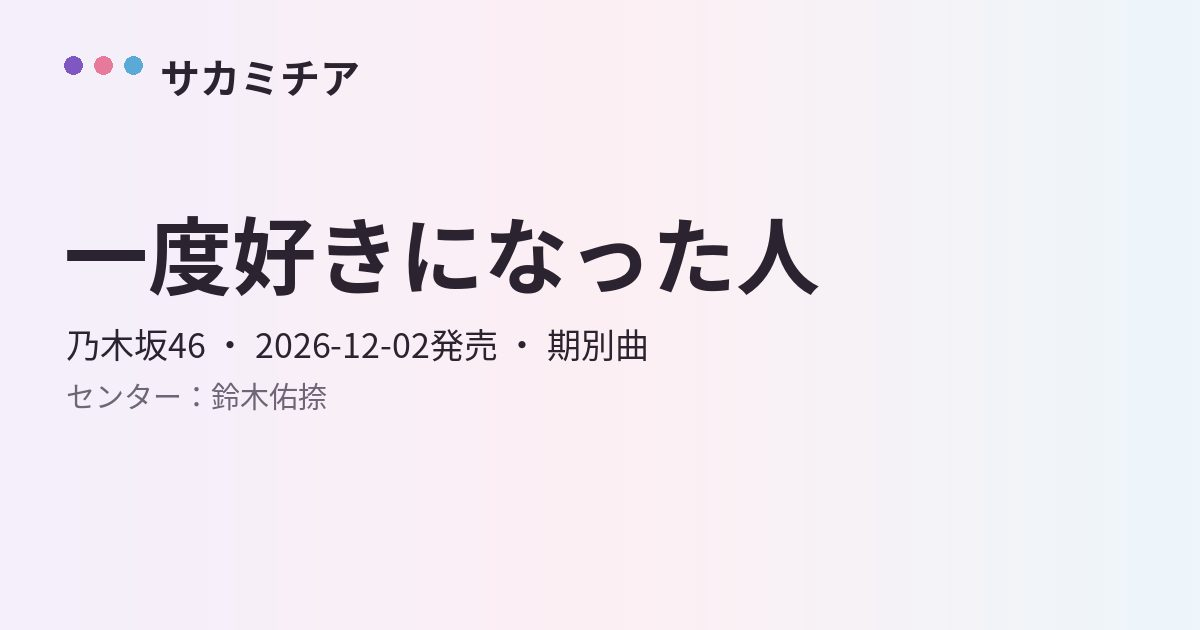
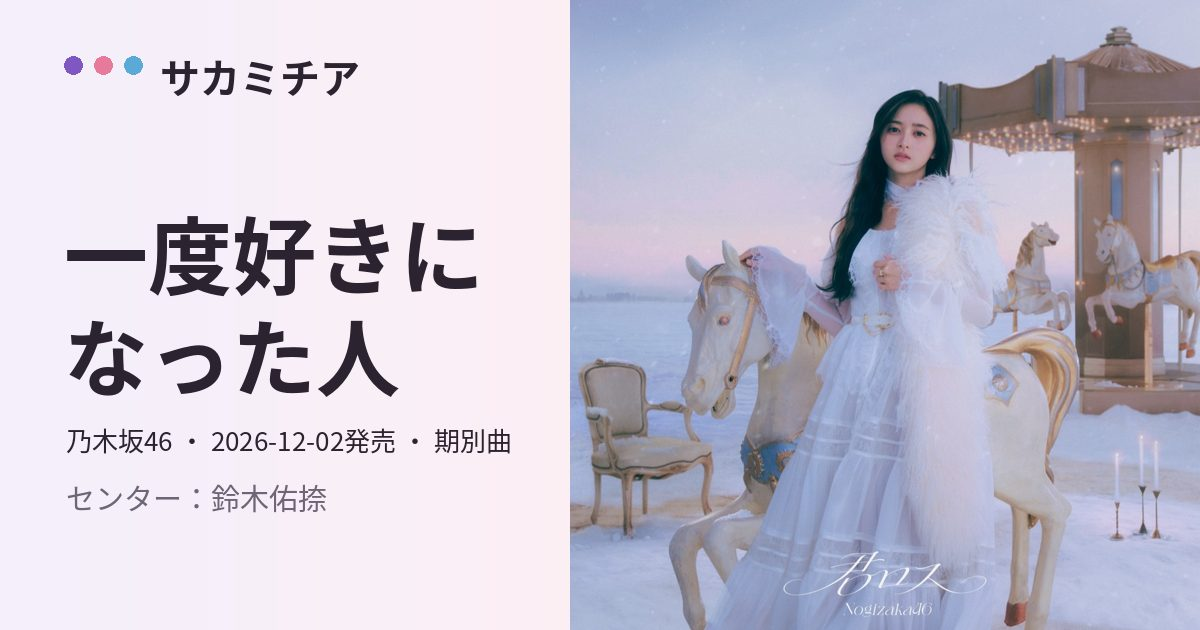
楽曲ページ：43rdSG『君ロス』のジャケット（TYPE-A・公式発表済みアートワーク）を登録し3曲のページ/OGPを再生成

diff --git a/songs/n-338/index.html b/songs/n-338/index.html
@@ -5,7 +5,7 @@
 <main class="wrap"><section class="page">
 <p style="margin:0 0 10px"><a href="../">← 楽曲図鑑に戻る</a></p>
 <h2 class="title">君ロス<span style="font-size:14px;color:var(--muted);margin-left:10px">きみろす</span></h2>
-<div class="sg-detail"><div class="sg-info"><p><span class="chip g-乃木坂46">乃木坂46</span></p><p>発売日：<b>2026-12-02</b><br>収録：<b>43rdSG</b><br>種別：表題曲<br>センター：<b><a href="../../members/inoue-nagi/">井上和</a></b></p></div></div>
+<div class="sg-detail"><div class="sg-jacket"><img src="../../assets/jackets/43rdsg-2026-12-02.jpg" alt="君ロスのジャケット"><p class="mb-cap">初収録リリース「君ロス」のジャケット</p></div><div class="sg-info"><p><span class="chip g-乃木坂46">乃木坂46</span></p><p>発売日：<b>2026-12-02</b><br>収録：<b>君ロス</b>（43rdSG）<br>種別：表題曲<br>センター：<b><a href="../../members/inoue-nagi/">井上和</a></b></p></div></div>
 <h4 style="margin:16px 0 4px">フォーメーション</h4><p style="color:var(--muted);font-size:12px;margin:0 0 6px">上が後列、下が前列です。色付きがセンター。（参考データに基づく）</p><div class="fq-board"><div class="fq-row" style="--maxn:9"><div class="fq-tile"><img loading="lazy" src="../../assets/member-photos/yumiki_nao.jpg" alt=""><span class="fq-name"><span class="fq-fam">弓木</span><span class="fq-giv">奈於</span></span></div><div class="fq-tile"><img loading="lazy" src="../../assets/member-photos/ioki_mao.jpg" alt=""><span class="fq-name"><span class="fq-fam">五百城</span><span class="fq-giv">茉央</span></span></div><div class="fq-tile"><img loading="lazy" src="../../assets/member-photos/kanagawa_saya.jpg" alt=""><span class="fq-name"><span class="fq-fam">金川</span><span class="fq-giv">紗耶</span></span></div><div class="fq-tile"><img loading="lazy" src="../../assets/member-photos/okoshi_hinano.jpg" alt=""><span class="fq-name"><span class="fq-fam">大越</span><span class="fq-giv">ひなの</span></span></div><div class="fq-tile"><img loading="lazy" src="../../assets/member-photos/sugawara_satsuki.jpg" alt=""><span class="fq-name"><span class="fq-fam">菅原</span><span class="fq-giv">咲月</span></span></div><div class="fq-tile"><img loading="lazy" src="../../assets/member-photos/yada_moeka.jpg" alt=""><span class="fq-name"><span class="fq-fam">矢田</span><span class="fq-giv">萌華</span></span></div><div class="fq-tile"><img loading="lazy" src="../../assets/member-photos/hayashi_runa.jpg" alt=""><span class="fq-name"><span class="fq-fam">林</span><span class="fq-giv">瑠奈</span></span></div><div class="fq-tile"><img loading="lazy" src="../../assets/member-photos/okamoto_hina.jpg" alt=""><span class="fq-name"><span class="fq-fam">岡本</span><span class="fq-giv">姫奈</span></span></div><div class="fq-tile"><img loading="lazy" src="../../assets/member-photos/tamura_mayu.jpg" alt=""><span class="fq-name"><span class="fq-fam">田村</span><span class="fq-giv">真佑</span></span></div></div><div class="fq-row" style="--maxn:6"><div class="fq-tile"><img loading="lazy" src="../../assets/member-photos/ogawa_aya.jpg" alt=""><span class="fq-name"><span class="fq-fam">小川</span><span class="fq-giv">彩</span></span></div><div class="fq-tile"><img loading="lazy" src="../../assets/member-photos/ichinose_miku.jpg" alt=""><span class="fq-name"><span class="fq-fam">一ノ瀬</span><span class="fq-giv">美空</span></span></div><div class="fq-tile"><img loading="lazy" src="../../assets/member-photos/kaki_haruka.jpg" alt=""><span class="fq-name"><span class="fq-fam">賀喜</span><span class="fq-giv">遥香</span></span></div><div class="fq-tile"><img loading="lazy" src="../../assets/member-photos/endo_sakura.jpg" alt=""><span class="fq-name"><span class="fq-fam">遠藤</span><span class="fq-giv">さくら</span></span></div><div class="fq-tile"><img loading="lazy" src="../../assets/member-photos/ikeda_teresa.jpg" alt=""><span class="fq-name"><span class="fq-fam">池田</span><span class="fq-giv">瑛紗</span></span></div><div class="fq-tile"><img loading="lazy" src="../../assets/member-photos/nakanishi_aruno.jpg" alt=""><span class="fq-name"><span class="fq-fam">中西</span><span class="fq-giv">アルノ</span></span></div></div><div class="fq-row" style="--maxn:3"><div class="fq-tile"><img loading="lazy" src="../../assets/member-photos/setoguchi_mitsuki.jpg" alt=""><span class="fq-name"><span class="fq-fam">瀬戸</span><span class="fq-giv">口心月</span></span></div><div class="fq-tile ctr"><img loading="lazy" src="../../assets/member-photos/inoue_nagi.jpg" alt=""><span class="fq-name"><span class="fq-fam">井上</span><span class="fq-giv">和</span></span></div><div class="fq-tile"><img loading="lazy" src="../../assets/member-photos/kawasaki_sakura.jpg" alt=""><span class="fq-name"><span class="fq-fam">川﨑</span><span class="fq-giv">桜</span></span></div></div></div><h4 style="margin:16px 0 4px">参加メンバー（18名）</h4><p style="line-height:2"><a href="../../members/endo-sakura/">遠藤さくら</a>、<a href="../../members/kaki-haruka/">賀喜遥香</a>、<a href="../../members/kanagawa-saya/">金川紗耶</a>、<a href="../../members/tamura-mayu/">田村真佑</a>、<a href="../../members/hayashi-runa/">林瑠奈</a>、<a href="../../members/yumiki-nao/">弓木奈於</a>、<a href="../../members/ioki-mao/">五百城茉央</a>、<a href="../../members/ikeda-teresa/">池田瑛紗</a>、<a href="../../members/ichinose-miku/">一ノ瀬美空</a>、<a href="../../members/inoue-nagi/">井上和</a>、<a href="../../members/okamoto-hina/">岡本姫奈</a>、<a href="../../members/ogawa-aya/">小川彩</a>、<a href="../../members/kawasaki-sakura/">川﨑桜</a>、<a href="../../members/sugawara-satsuki/">菅原咲月</a>、<a href="../../members/nakanishi-aruno/">中西アルノ</a>、<a href="../../members/okoshi-hinano/">大越ひなの</a>、<a href="../../members/setoguchi-mitsuki/">瀬戸口心月</a>、<a href="../../members/yada-moeka/">矢田萌華</a></p><p style="margin-top:14px"><button type="button" id="sgEditFormation">このフォーメーションを編集する</button></p><h4 style="margin:18px 0 4px">同じリリースの曲</h4><p style="line-height:2"><b>君ロス</b>、<a href="../n-339/">一度好きになった人</a>、<a href="../n-340/">編集</a></p><p style="display:flex;justify-content:space-between;gap:10px;flex-wrap:wrap;margin-top:22px"><a href="../n-339/">次の曲「一度好きになった人」 →</a></p>
 </section></main>
 <footer><div class="wrap">サカミチアは個人運営の非公式ファンサイトです。公式運営とは関係ありません。記事・写真・楽曲の権利は各権利者に帰属します。</div></footer>

diff --git a/songs/n-340/index.html b/songs/n-340/index.html
@@ -5,7 +5,7 @@
 <main class="wrap"><section class="page">
 <p style="margin:0 0 10px"><a href="../">← 楽曲図鑑に戻る</a></p>
 <h2 class="title">編集<span style="font-size:14px;color:var(--muted);margin-left:10px">へんしゅう</span></h2>
-<div class="sg-detail"><div class="sg-info"><p><span class="chip g-乃木坂46">乃木坂46</span></p><p>発売日：<b>2026-12-02</b><br>収録：<b>43rdSG</b><br>種別：アンダー曲<br>センター：<b><a href="../../members/ito-riria/">伊藤理々杏</a>・<a href="../../members/iwamoto-renka/">岩本蓮加</a></b></p></div></div>
+<div class="sg-detail"><div class="sg-jacket"><img src="../../assets/jackets/43rdsg-2026-12-02.jpg" alt="君ロスのジャケット"><p class="mb-cap">初収録リリース「君ロス」のジャケット</p></div><div class="sg-info"><p><span class="chip g-乃木坂46">乃木坂46</span></p><p>発売日：<b>2026-12-02</b><br>収録：<b>君ロス</b>（43rdSG）<br>種別：アンダー曲<br>センター：<b><a href="../../members/ito-riria/">伊藤理々杏</a>・<a href="../../members/iwamoto-renka/">岩本蓮加</a></b></p></div></div>
 <h4 style="margin:16px 0 4px">フォーメーション</h4><p style="color:var(--muted);font-size:12px;margin:0 0 6px">上が後列、下が前列です。色付きがセンター。（公式発表に基づく）</p><div class="fq-board"><div class="fq-row" style="--maxn:6"><div class="fq-tile"><img loading="lazy" src="../../assets/member-photos/suzuki_yuuna.jpg" alt=""><span class="fq-name"><span class="fq-fam">鈴木</span><span class="fq-giv">佑捺</span></span></div><div class="fq-tile"><img loading="lazy" src="../../assets/member-photos/nagashima_rio.jpg" alt=""><span class="fq-name"><span class="fq-fam">長嶋</span><span class="fq-giv">凛桜</span></span></div><div class="fq-tile"><img loading="lazy" src="../../assets/member-photos/kawabata_hina.jpg" alt=""><span class="fq-name"><span class="fq-fam">川端</span><span class="fq-giv">晃菜</span></span></div><div class="fq-tile"><img loading="lazy" src="../../assets/member-photos/masuda_mirine.jpg" alt=""><span class="fq-name"><span class="fq-fam">増田</span><span class="fq-giv">三莉音</span></span></div><div class="fq-tile"><img loading="lazy" src="../../assets/member-photos/atago_kokone.jpg" alt=""><span class="fq-name"><span class="fq-fam">愛宕</span><span class="fq-giv">心響</span></span></div><div class="fq-tile"><img loading="lazy" src="../../assets/member-photos/ozu_reina.jpg" alt=""><span class="fq-name"><span class="fq-fam">小津</span><span class="fq-giv">玲奈</span></span></div></div><div class="fq-row" style="--maxn:5"><div class="fq-tile"><img loading="lazy" src="../../assets/member-photos/morihira_urumi.jpg" alt=""><span class="fq-name"><span class="fq-fam">森平</span><span class="fq-giv">麗心</span></span></div><div class="fq-tile"><img loading="lazy" src="../../assets/member-photos/okuda_iroha.jpg" alt=""><span class="fq-name"><span class="fq-fam">奥田</span><span class="fq-giv">いろは</span></span></div><div class="fq-tile"><img loading="lazy" src="../../assets/member-photos/kuromi_haruka.jpg" alt=""><span class="fq-name"><span class="fq-fam">黒見</span><span class="fq-giv">明香</span></span></div><div class="fq-tile"><img loading="lazy" src="../../assets/member-photos/tomisato_nao.jpg" alt=""><span class="fq-name"><span class="fq-fam">冨里</span><span class="fq-giv">奈央</span></span></div><div class="fq-tile"><img loading="lazy" src="../../assets/member-photos/kaibe_akari.jpg" alt=""><span class="fq-name"><span class="fq-fam">海邉</span><span class="fq-giv">朱莉</span></span></div></div><div class="fq-row" style="--maxn:4"><div class="fq-tile"><img loading="lazy" src="../../assets/member-photos/shibata_yuna.jpg" alt=""><span class="fq-name"><span class="fq-fam">柴田</span><span class="fq-giv">柚菜</span></span></div><div class="fq-tile ctr"><img loading="lazy" src="../../assets/member-photos/iwamoto_renka.jpg" alt=""><span class="fq-name"><span class="fq-fam">岩本</span><span class="fq-giv">蓮加</span></span></div><div class="fq-tile ctr"><img loading="lazy" src="../../assets/member-photos/ito_riria.jpg" alt=""><span class="fq-name"><span class="fq-fam">伊藤</span><span class="fq-giv">理々杏</span></span></div><div class="fq-tile"><img loading="lazy" src="../../assets/member-photos/tsutsui_ayame.jpg" alt=""><span class="fq-name"><span class="fq-fam">筒井</span><span class="fq-giv">あやめ</span></span></div></div></div><h4 style="margin:16px 0 4px">参加メンバー（15名）</h4><p style="line-height:2"><a href="../../members/ito-riria/">伊藤理々杏</a>、<a href="../../members/iwamoto-renka/">岩本蓮加</a>、<a href="../../members/kuromi-haruka/">黒見明香</a>、<a href="../../members/shibata-yuna/">柴田柚菜</a>、<a href="../../members/tsutsui-ayame/">筒井あやめ</a>、<a href="../../members/okuda-iroha/">奥田いろは</a>、<a href="../../members/tomisato-nao/">冨里奈央</a>、<a href="../../members/atago-kokone/">愛宕心響</a>、<a href="../../members/ozu-reina/">小津玲奈</a>、<a href="../../members/kaibe-akari/">海邉朱莉</a>、<a href="../../members/kawabata-hina/">川端晃菜</a>、<a href="../../members/suzuki-yuuna/">鈴木佑捺</a>、<a href="../../members/nagashima-rio/">長嶋凛桜</a>、<a href="../../members/masuda-mirine/">増田三莉音</a>、<a href="../../members/morihira-urumi/">森平麗心</a></p><p style="margin-top:14px"><button type="button" id="sgEditFormation">このフォーメーションを編集する</button></p><h4 style="margin:18px 0 4px">同じリリースの曲</h4><p style="line-height:2"><a href="../n-338/">君ロス</a>、<a href="../n-339/">一度好きになった人</a>、<b>編集</b></p><p style="display:flex;justify-content:space-between;gap:10px;flex-wrap:wrap;margin-top:22px"><a href="../n-339/">← 前の曲「一度好きになった人」</a></p>
 </section></main>
 <footer><div class="wrap">サカミチアは個人運営の非公式ファンサイトです。公式運営とは関係ありません。記事・写真・楽曲の権利は各権利者に帰属します。</div></footer>

diff --git a/songs/n-339/index.html b/songs/n-339/index.html
@@ -5,7 +5,7 @@
 <main class="wrap"><section class="page">
 <p style="margin:0 0 10px"><a href="../">← 楽曲図鑑に戻る</a></p>
 <h2 class="title">一度好きになった人<span style="font-size:14px;color:var(--muted);margin-left:10px">いちどすきになったひと</span></h2>
-<div class="sg-detail"><div class="sg-info"><p><span class="chip g-乃木坂46">乃木坂46</span></p><p>発売日：<b>2026-12-02</b><br>収録：<b>43rdSG</b><br>種別：期別曲<br>センター：<b><a href="../../members/suzuki-yuuna/">鈴木佑捺</a></b><br>作曲：ナスカ<br>編曲：野中“まさ”雄一<br>ライブ披露：<b>2件</b></p></div></div>
+<div class="sg-detail"><div class="sg-jacket"><img src="../../assets/jackets/43rdsg-2026-12-02.jpg" alt="君ロスのジャケット"><p class="mb-cap">初収録リリース「君ロス」のジャケット</p></div><div class="sg-info"><p><span class="chip g-乃木坂46">乃木坂46</span></p><p>発売日：<b>2026-12-02</b><br>収録：<b>君ロス</b>（43rdSG）<br>種別：期別曲<br>センター：<b><a href="../../members/suzuki-yuuna/">鈴木佑捺</a></b><br>作曲：ナスカ<br>編曲：野中“まさ”雄一<br>ライブ披露：<b>2件</b></p></div></div>
 <h4 style="margin:16px 0 4px">歌唱メンバー（11名）</h4><p style="line-height:2"><a href="../../members/atago-kokone/">愛宕心響</a>、<a href="../../members/okoshi-hinano/">大越ひなの</a>、<a href="../../members/ozu-reina/">小津玲奈</a>、<a href="../../members/kaibe-akari/">海邉朱莉</a>、<a href="../../members/kawabata-hina/">川端晃菜</a>、<a href="../../members/suzuki-yuuna/">鈴木佑捺</a>、<a href="../../members/setoguchi-mitsuki/">瀬戸口心月</a>、<a href="../../members/nagashima-rio/">長嶋凛桜</a>、<a href="../../members/masuda-mirine/">増田三莉音</a>、<a href="../../members/morihira-urumi/">森平麗心</a>、<a href="../../members/yada-moeka/">矢田萌華</a></p><h4 style="margin:18px 0 4px">この曲が披露されたライブ（2件）</h4><div style="padding:7px 0;border-bottom:1px solid var(--line)"><a href="../../live/?show=nogi-889-2026-10-27-1830"><b>6期生全国ツアー2026［神奈川②］</b></a><br><span style="color:var(--muted);font-size:13px">2026-10-27 ・ KT Zepp Yokohama</span></div><div style="padding:7px 0;border-bottom:1px solid var(--line)"><a href="../../live/?show=nogi-888-2026-10-26-1900"><b>6期生全国ツアー2026［神奈川①］</b></a><br><span style="color:var(--muted);font-size:13px">2026-10-26 ・ KT Zepp Yokohama</span></div><h4 style="margin:18px 0 4px">同じリリースの曲</h4><p style="line-height:2"><a href="../n-338/">君ロス</a>、<b>一度好きになった人</b>、<a href="../n-340/">編集</a></p><p style="display:flex;justify-content:space-between;gap:10px;flex-wrap:wrap;margin-top:22px"><a href="../n-338/">← 前の曲「君ロス」</a><a href="../n-340/">次の曲「編集」 →</a></p>
 </section></main>
 <footer><div class="wrap">サカミチアは個人運営の非公式ファンサイトです。公式運営とは関係ありません。記事・写真・楽曲の権利は各権利者に帰属します。</div></footer>
